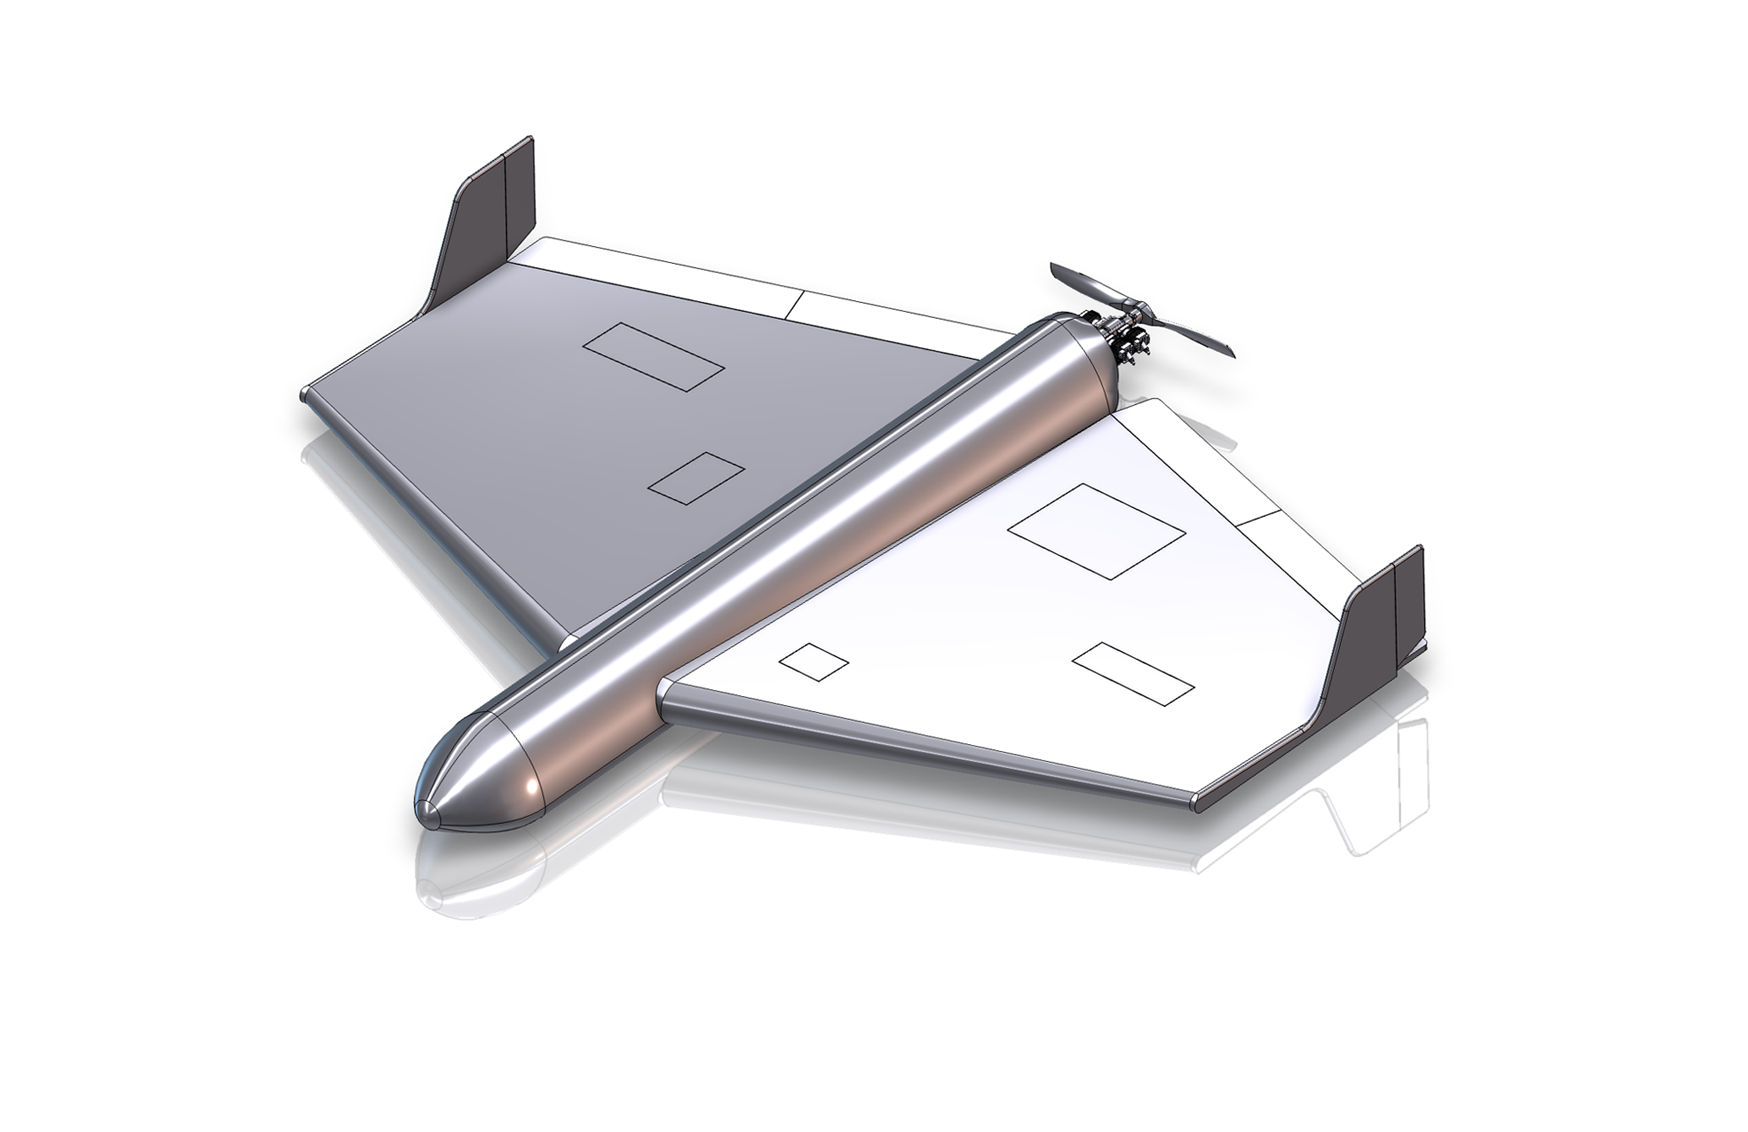
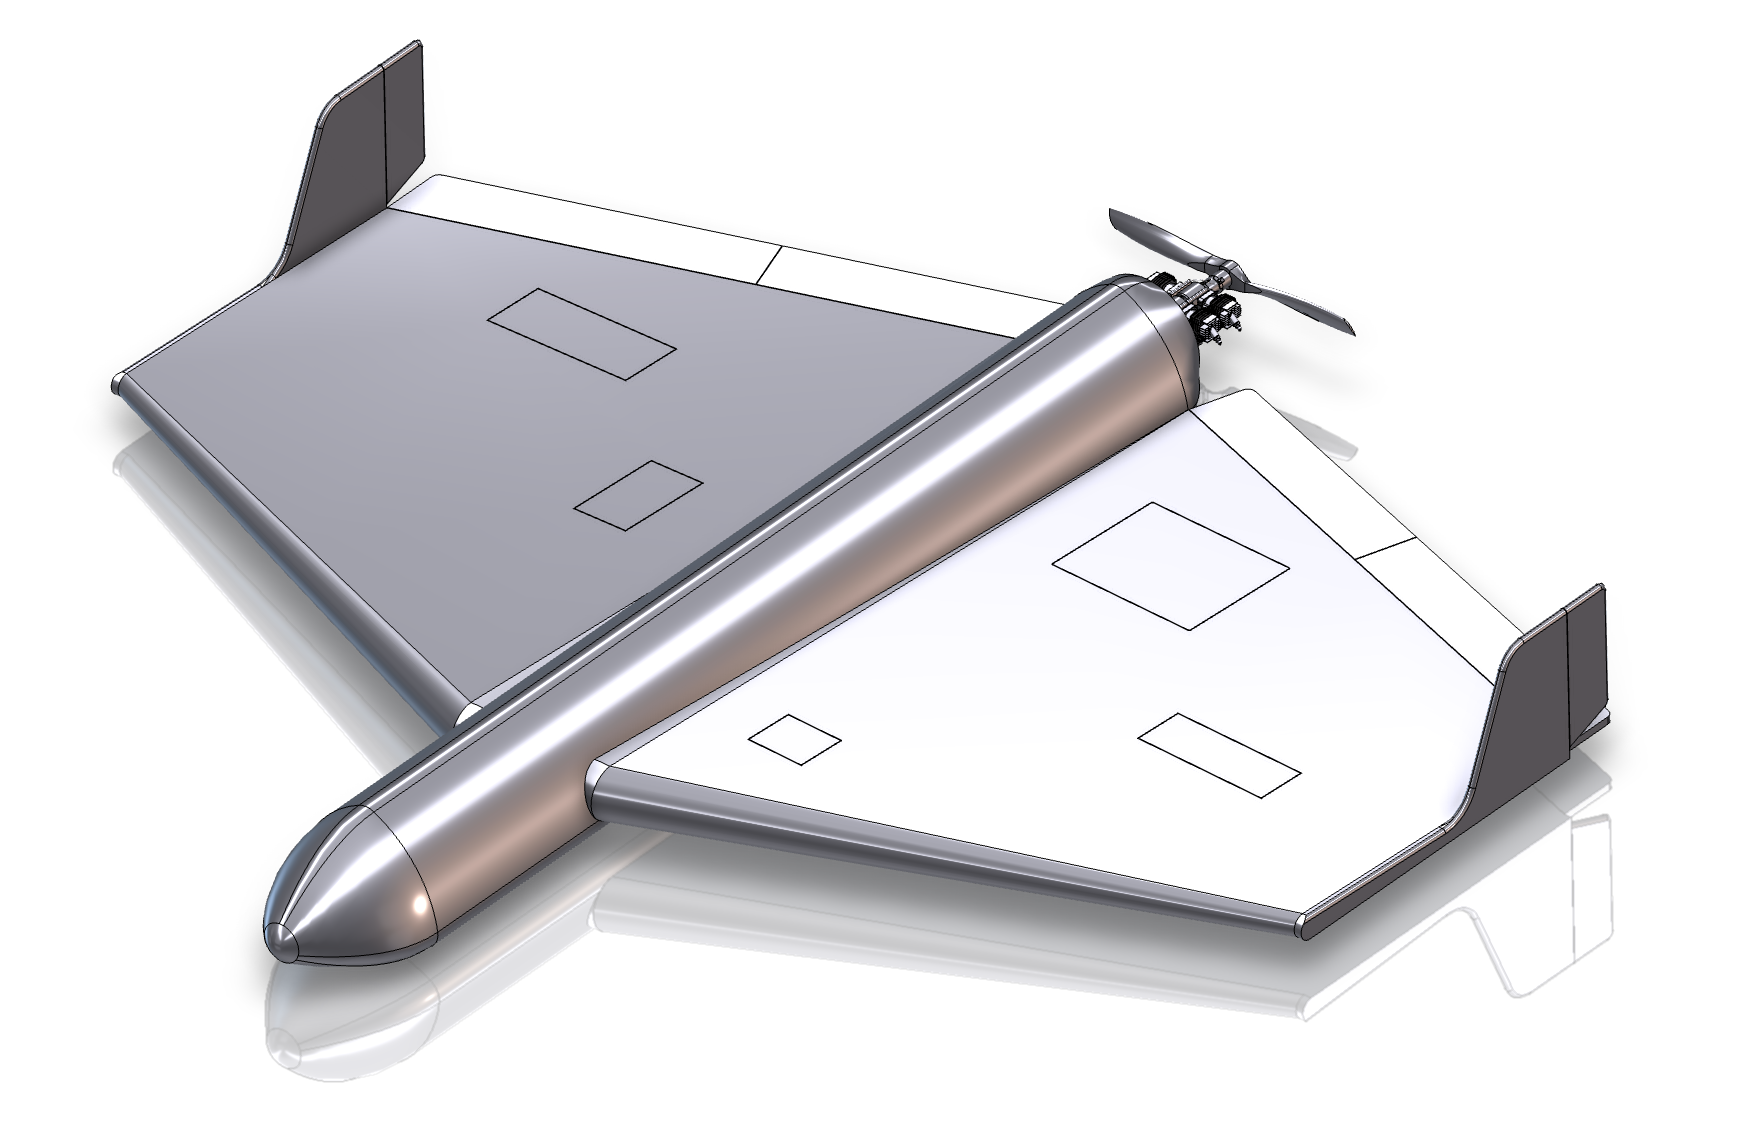
new drones added

diff --git a/src/app/pages/what/what.ts b/src/app/pages/what/what.ts
@@ -59,7 +59,7 @@ export class What implements OnInit, OnDestroy, AfterViewInit {
       category: 'Logistics & Transport',
       title: 'Cargo & Mobility Platform',
       tag: 'Commercial · Defense · Unmanned',
-      image: '/assets/drones/uav_1.png',
+      image: '/assets/drones/fd_drone_4.png',
       body: `Feather Dynamics' Cargo & Mobility Platforms are unmanned aerial systems designed to support reliable cargo transport and operational mobility across both commercial and defense applications. Designed and manufactured in the United States, these platforms are built to perform consistently in demanding, time-sensitive environments. The aircraft feature a cargo-first, modular airframe that enables efficient transport of equipment, supplies, and specialized payloads over short- and medium-range distances. AI-driven autonomy supports precise navigation, autonomous flight operations, and adaptive route planning, allowing transport and resupply missions to be carried out with reduced operator involvement.`
     },
     {
@@ -67,7 +67,7 @@ export class What implements OnInit, OnDestroy, AfterViewInit {
       category: 'Mission Systems',
       title: 'Payloads & Integrated Systems',
       tag: 'EO/IR · Sensor Fusion · Modular',
-      image: '/assets/drones/fd_drone_1.png',
+      image: '/assets/drones/fd_drone_7.png',
       body: `Feather Dynamics' Payloads & Integrated Systems portfolio delivers a range of mission-focused subsystems designed to enhance UAV capability, effectiveness, and situational awareness across defense and security operations. Core offerings include advanced electro-optical and infrared surveillance systems, gyro-stabilized weapons turret assemblies, and other modular mission payloads deployed on unmanned aircraft for intelligence, surveillance, reconnaissance, and force protection roles. AI-enabled sensor fusion supports real-time data analysis, target tracking, and operator decision support, while stabilized mounting ensures consistent performance during dynamic flight conditions.`
     },
     {
@@ -75,7 +75,7 @@ export class What implements OnInit, OnDestroy, AfterViewInit {
       category: 'Innovation',
       title: 'Research & Development Capabilities',
       tag: 'Next-Gen · Licensing · Procurement',
-      image: '/assets/drones/fd_drone_3.png',
+      image: '/assets/drones/fd_drone_6.png',
       body: `Feather Dynamics' Research & Development division delivers cutting-edge technical research and innovation for defense, security, and commercial applications. Focused on exploring advanced UAV technologies, autonomous systems, sensor integration, and mission-specific solutions, this team drives the creation of next-generation mission critical technologies. Many R&D initiatives are designed to transition seamlessly into commercial products, offering customers access through direct procurement or licensing agreements. By combining deep technical expertise with practical operational insight, Feather Dynamics' R&D efforts accelerate the development of innovative, scalable, and mission-ready solutions.`
     }
   ];

diff --git a/src/app/shared/what-we-do/what-we-do.ts b/src/app/shared/what-we-do/what-we-do.ts
@@ -38,19 +38,19 @@ export class WhatWeDo implements AfterViewInit {
       number: '02',
       title: 'Transport & Mobility',
       // image: '/assets/images/ril_photo1.jpg'
-      image: '/assets/drones/uav_1.png'
+      image: '/assets/drones/fd_drone_4.png'
     },
     {
       number: '03',
       title: 'Payloads & Integrated',
       // image: '/assets/images/ril_p4.jpg'
-      image: '/assets/drones/fd_drone_1.png'
+      image: '/assets/drones/fd_drone_7.png'
     },
     {
       number: '04',
       title: 'Research & Development',
       // image: '/assets/images/4.jpg'
-      image: '/assets/drones/fd_drone_3.png'
+      image: '/assets/drones/fd_drone_6.png'
     }
   ];
 

diff --git a/src/app/pages/delta-y4/delta-y4.html b/src/app/pages/delta-y4/delta-y4.html
@@ -1,4 +1,4 @@
-<app-page-header [title]="'Delta Y4 Tactical UAV'" [bgImage]="'/assets/images/uavmodel.jpg'" [classification]="'Class - Level 1'"></app-page-header>
+<app-page-header [title]="'Delta Y4 Tactical UAV'" [bgImage]="'/assets/drones/fd_drone_2.png'" [classification]="'Class - Level 1'"></app-page-header>
 
 <section class="dy4">
   <div class="dy4__scroll" #scrollSection>

diff --git a/src/app/pages/pathfinder/pathfinder.html b/src/app/pages/pathfinder/pathfinder.html
@@ -1,4 +1,4 @@
-<app-page-header [title]="'PathFinder Scout UAV'" [bgImage]="'/assets/images/uavmodel.jpg'" [classification]="'Class - Group 2'"></app-page-header>
+<app-page-header [title]="'PathFinder Scout UAV'" [bgImage]="'/assets/drones/fd_drone_7.png'" [classification]="'Class - Group 2'"></app-page-header>
 
 <section class="pf">
   <div class="pf__scroll" #scrollSection>